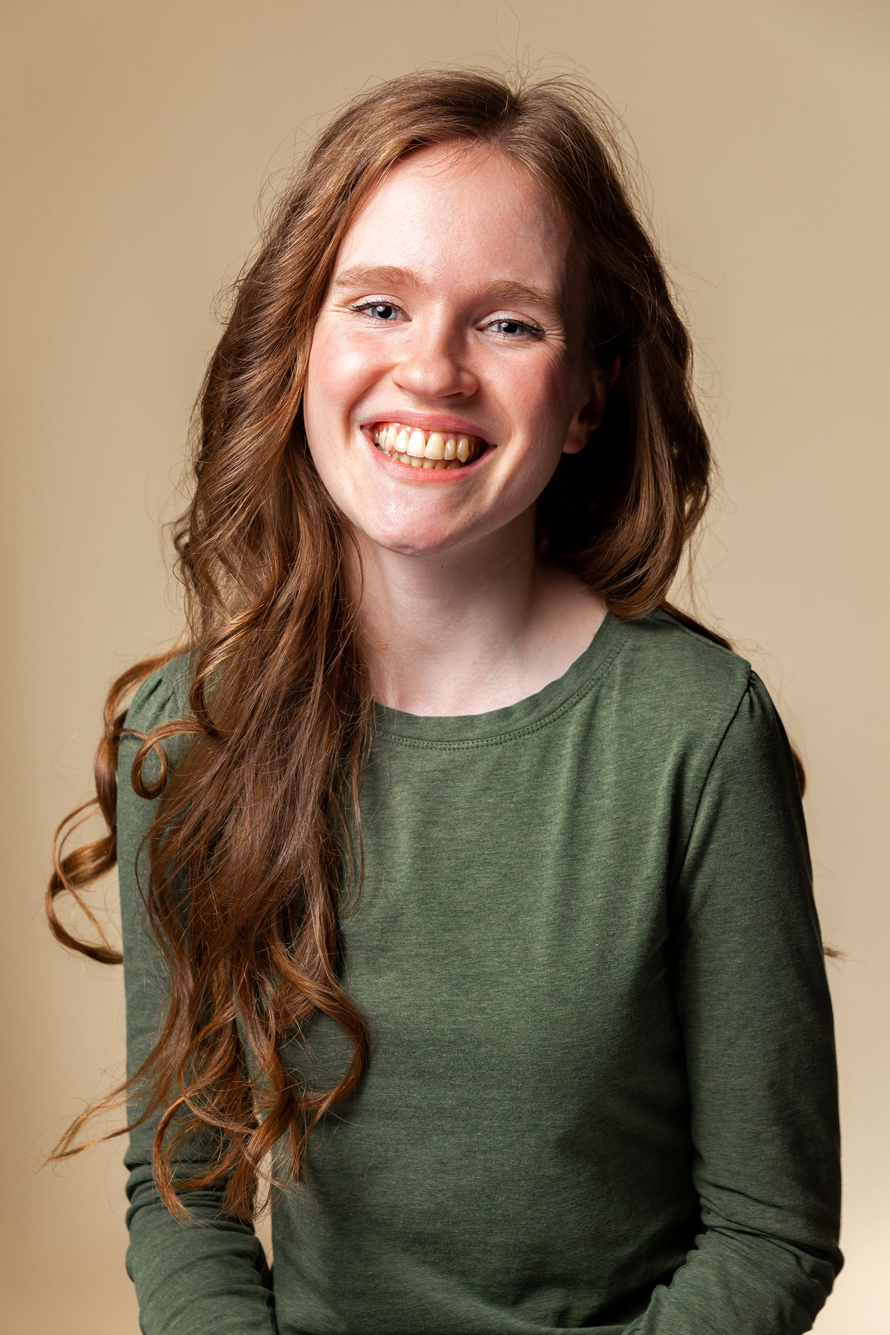
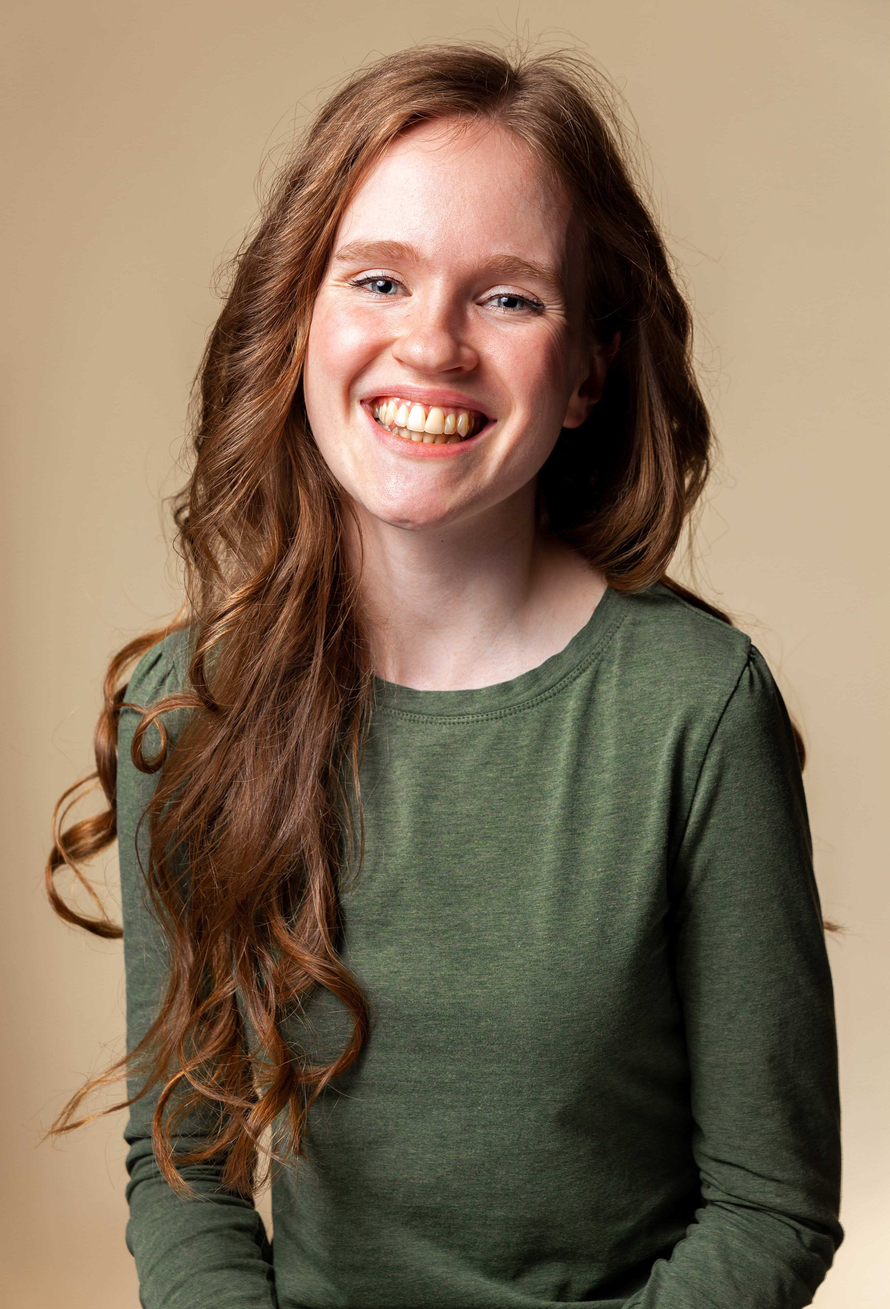
Update sidebar to be resolution-independent

diff --git a/styles.css b/styles.css
@@ -9,7 +9,8 @@ p, button {
 }
 .w3-row-padding img {margin-bottom: 12px}
 .bgimg {
-  background-position: 0px -24px;
+  background-color: #edffe3;
+  background-position: 50% 0px;
   background-repeat: no-repeat;
   background-size: cover;
   background-image: url('./assets/img/portrait.jpg');
